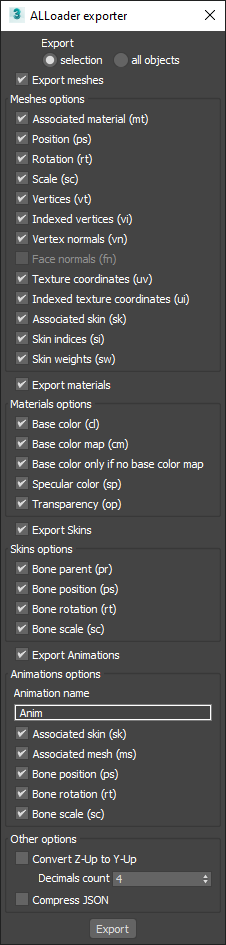
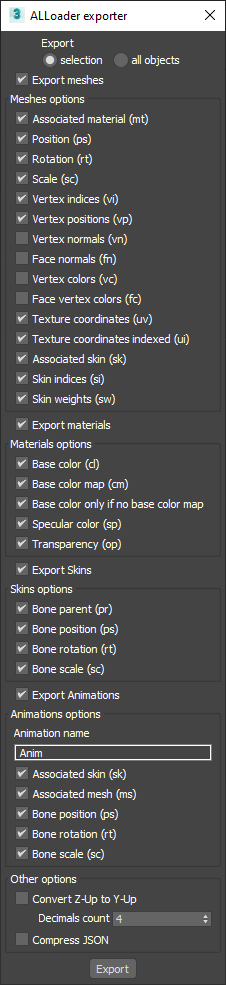
Improve exporter UI

diff --git a/loader/ALLoader.js b/loader/ALLoader.js
@@ -226,41 +226,20 @@ export class ALLoader extends THREE.Loader {
 				// INDEXED
 				if (unindexVertices) {
 					vertices = this.unindexData(jsonMesh.vp, jsonMesh.vi, true, 3);
-					// Groups (for multiMaterials)
-					let index = 0;
-					let materialIndex = 0;
-					for (const group of jsonMesh.vi) {
-						geometry.addGroup(index, group.length, materialIndex);
-						index += group.length;
-						materialIndex++;
-					}
+					this.createGroups(jsonMesh.vi, 1, geometry);
 				}
 				else {
 					// Indices
 					const indices = this.mergeSubArrays(jsonMesh.vi, false, false);
 					geometry.setIndex(indices);
 					vertices = new Float32Array(jsonMesh.vp);
-					// Groups (for multiMaterials)
-					let index = 0;
-					let materialIndex = 0;
-					for (const group of jsonMesh.vi) {
-						geometry.addGroup(index, group.length, materialIndex);
-						index += group.length;
-						materialIndex++;
-					}
+					this.createGroups(jsonMesh.vi, 1, geometry);
 				}
 			}
 			else {
 				// NOT INDEXED
 				vertices = this.mergeSubArrays(jsonMesh.vp, true, true);
-				// Groups (for multiMaterials)
-				let index = 0;
-				let materialIndex = 0;
-				for (const group of jsonMesh.vp) {
-					geometry.addGroup((index / 3), (group.length / 3), materialIndex);
-					index += group.length;
-					materialIndex++;
-				}
+				this.createGroups(jsonMesh.vp, 3, geometry);
 			}
 
 			geometry.setAttribute('position', new THREE.BufferAttribute(vertices, 3));
@@ -472,6 +451,17 @@ export class ALLoader extends THREE.Loader {
 			}
 		}
 		return buffer;
+	}
+
+	// Groups (for multiMaterials)
+	createGroups(multiData, divideBy, geometry) {
+		let index = 0;
+		let materialIndex = 0;
+		for (const group of multiData) {
+			geometry.addGroup((index / divideBy), (group.length / divideBy), materialIndex);
+			index += group.length;
+			materialIndex++;
+		}
 	}
 
 	static cloneAnimationData(data, newName) {

diff --git a/index.html b/index.html
@@ -57,7 +57,7 @@
 			<div class="col-md-2 side-menu">
 				<h2>ALLoader demos</h2>
 				<p class="text-center">
-					<a href="https://github.com/antlafarge/ALLoader">Github project</a>
+					<a href="https://github.com/antlafarge/ALLoader" target="_blank">Github project</a>
 				</p>
 				<a href="index.html?model=tank">
 					<figure class="figure">

diff --git a/README.md b/README.md
@@ -25,14 +25,43 @@ ALLoader is an Autodesk 3dsMax exporter (MaxScript) to JSON, and a WebGL Three.j
 - Follow the instructions
 
 ## Exported data
-- Mesh data (name, position, rotation, scale)
-- Vertices with indices
-- Texture coordinates (UV) with indices
-- Face normals
-- Materials & multi-materials
-- skin indices & weights
-- skeleton hierarchy (skin, bones)
-- time keys for bones rigged on a mesh (position, rotation, scale)
+- Meshes
+    - Name (JSON field)
+    - Associated material (mt)
+    - Position (ps)
+    - Rotation (rt)
+    - Scale (sc)
+    - Vertex indices (vi)
+    - Vertex positions (vp)
+    - Vertex normals (vn)
+    - Face normals (fn)
+    - Vertex colors (vc)
+    - Face vertex colors (fc)
+    - Texture coordinates UV indices (ui)
+    - Texture coordinates UV (uv)
+    - Skin indices (si)
+    - Skin weights (sw)
+- Materials
+    - Name (JSON field)
+    - Color (cl)
+    - Color map (cm)
+    - Specular (sp)
+    - Transparency (op)
+- Skeletons
+    - Name (JSON field)
+    - Parent (pr)
+    - Position (ps)
+    - Rotation (rt)
+    - Scale (sc)
+- Animations
+    - Associated skeleton (sk)
+    - Associated mesh (ms)
+    - Bone name (bn)
+    - Hierarchy (hr)
+        - Time (tm)
+        - Position (ps)
+        - Rotation (rt)
+        - Scale (sc)
 
 ## 3ds Max elements supported
 - Axis conversion (Z-up to Y-up)
@@ -43,6 +72,8 @@ ALLoader is an Autodesk 3dsMax exporter (MaxScript) to JSON, and a WebGL Three.j
 - Wire
 - Opacity
 - Timeline playback speed
+- Skin modifier (bones)
+- Vertex paint modifier (Vertex color)
 
 ## FAQ
 Q. Some objects in the scene are not well placed?  
@@ -54,13 +85,6 @@ A. Export your scene using the FBX format, close your scene and open the FBX fil
 _You can share feedback or discuss the project in the [discussion tab](https://github.com/antlafarge/ALLoader/discussions)._  
 
 ## Todo
+- Check gordon skeleton transforms
 - Check every types of objects are well exported (EditPoly, EditMesh...)
-- UV indices optimization
-    - When disabled :
-        - Use only UVs
-- Vertex indices optimization
-    - When disabled :
-        - Use only vertex positions
-        - Handle properly face normals
-        - Handle properly skin indices and skin weights
 - 3dsMax biped
